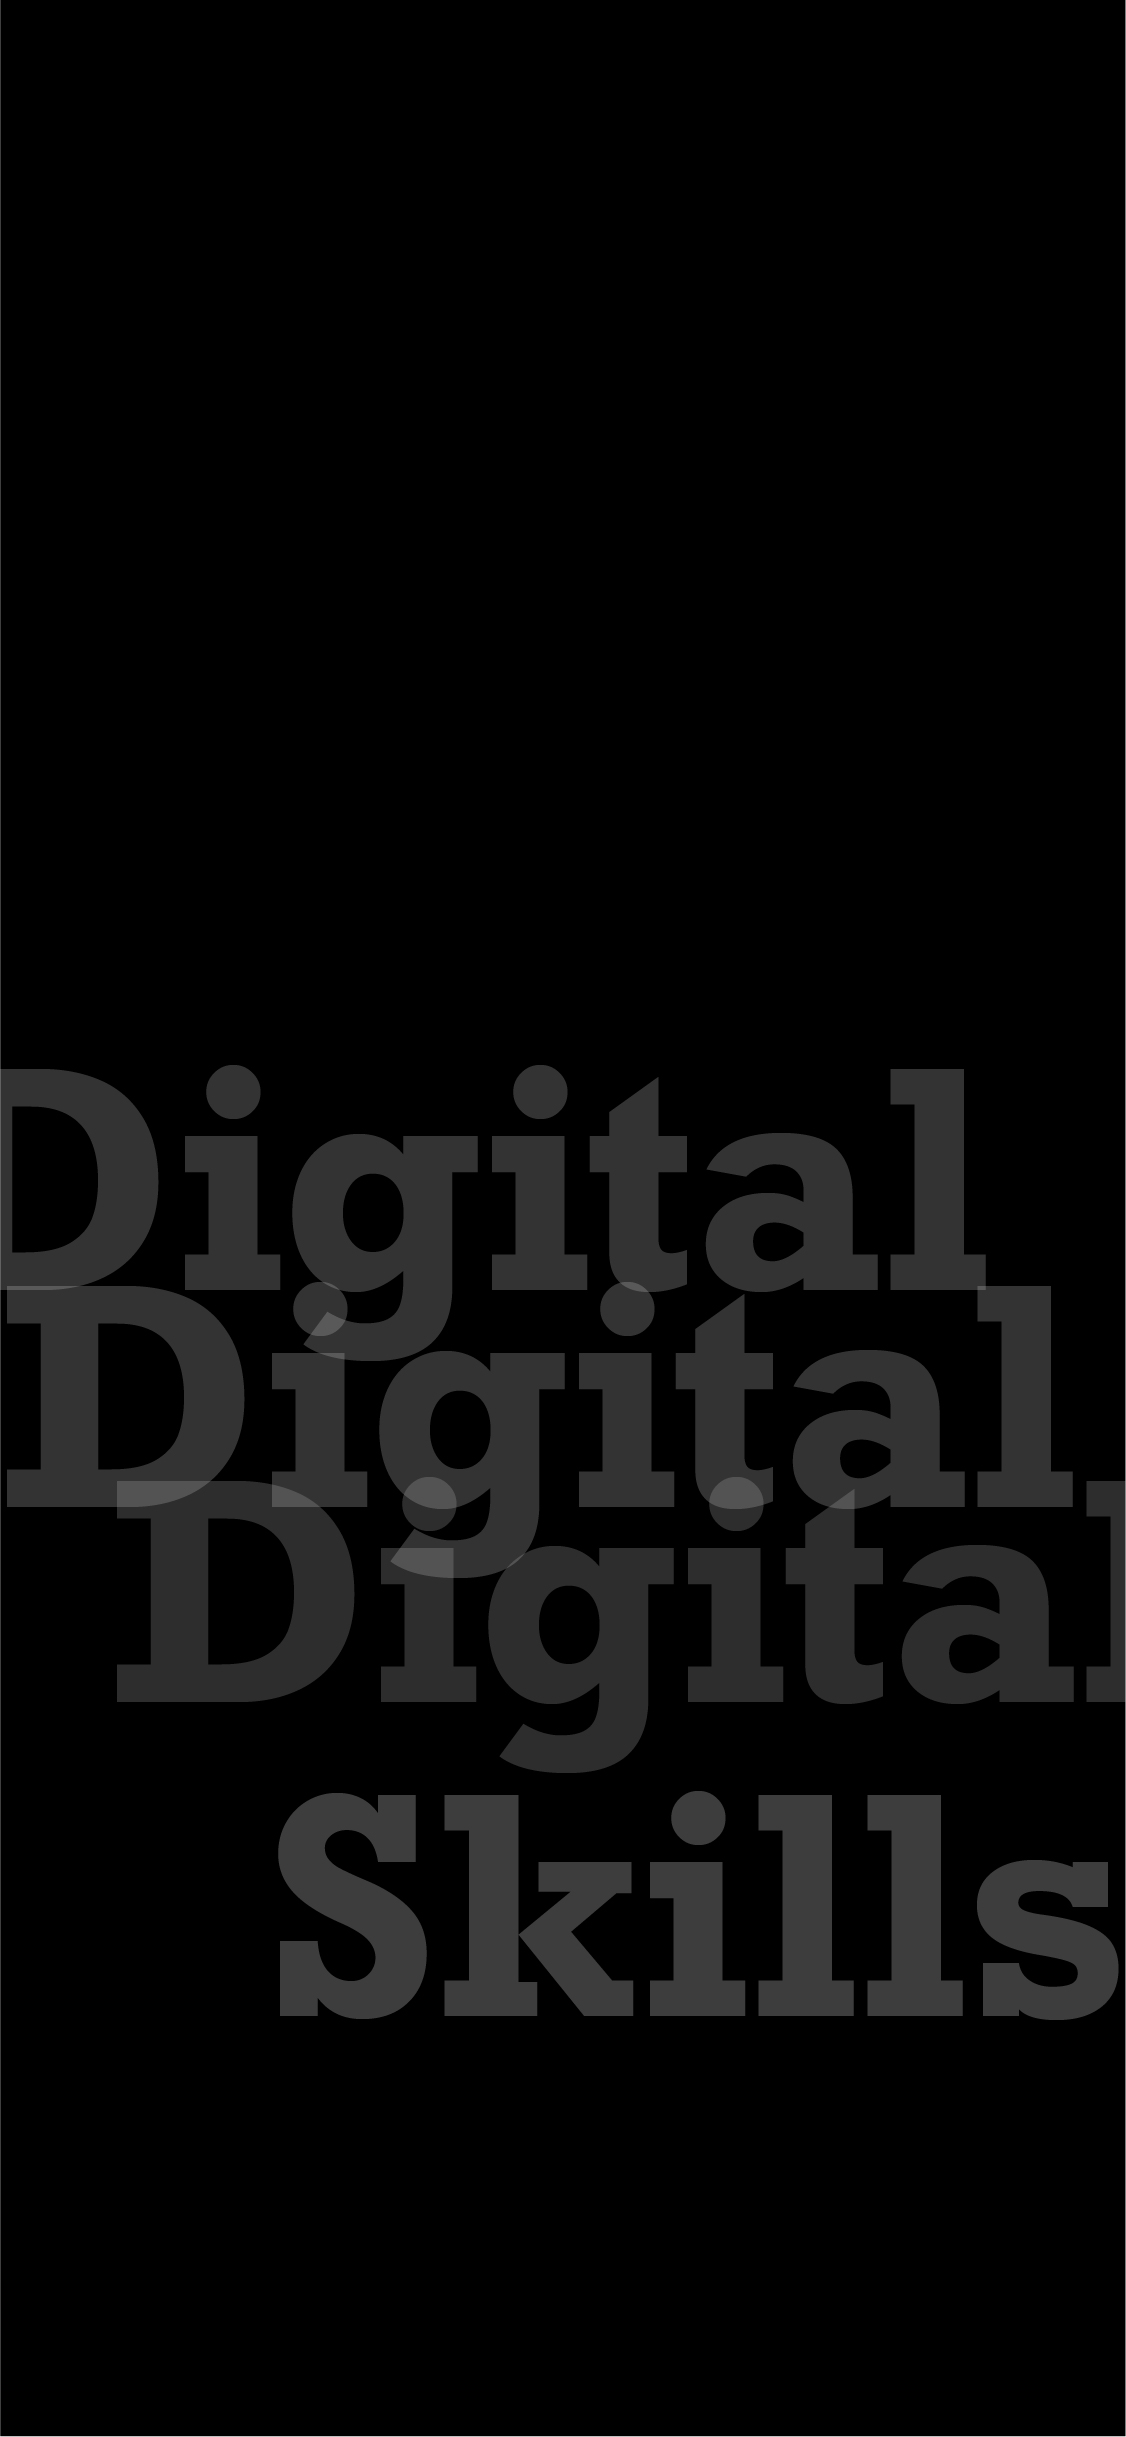
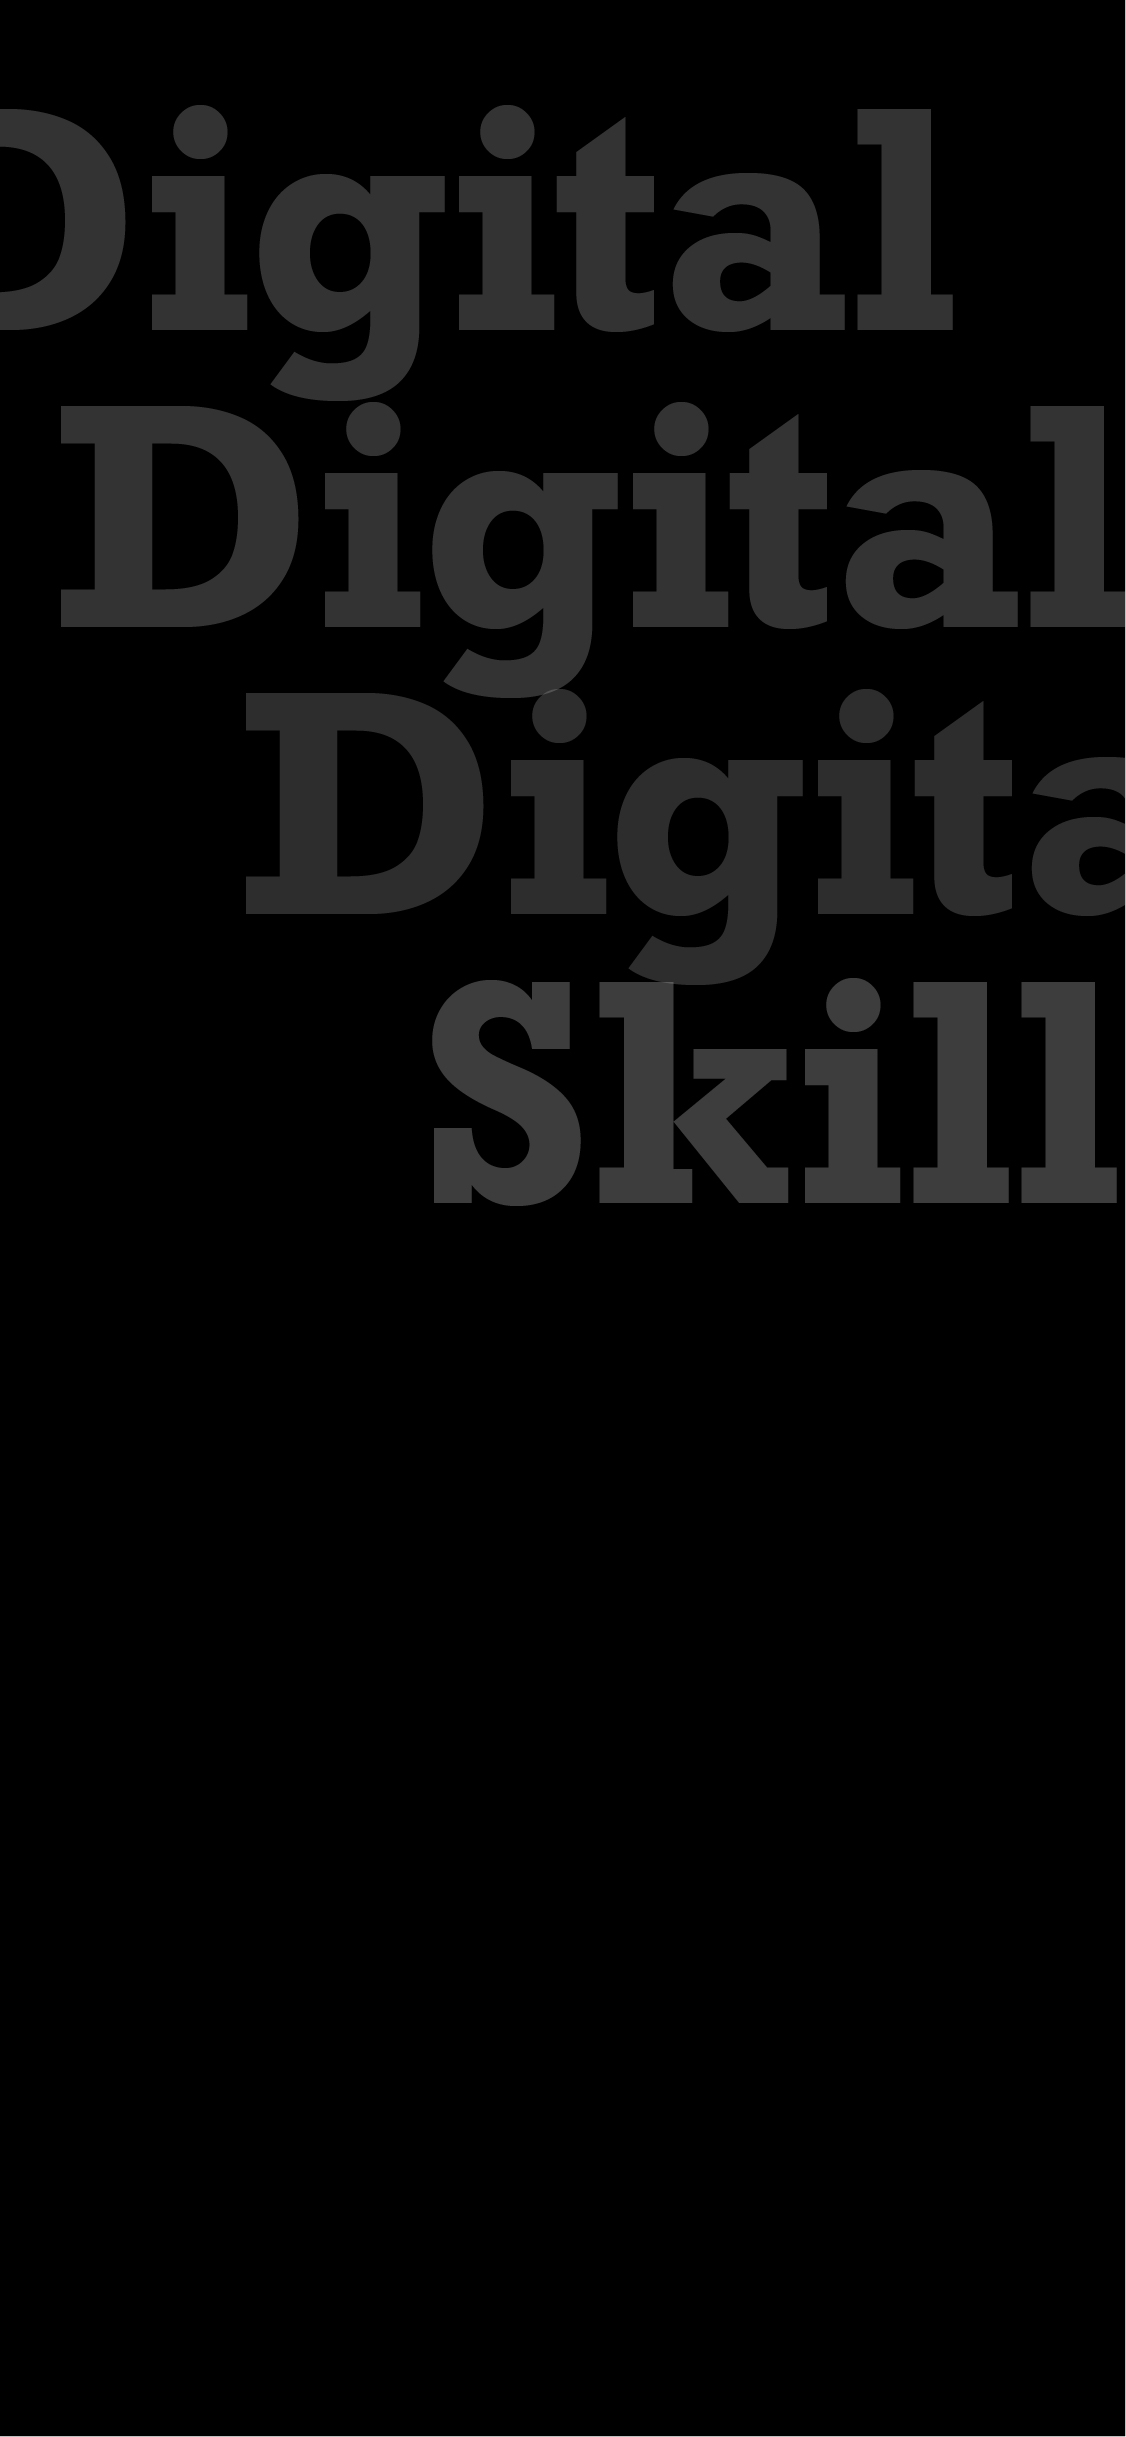
mobile backgrounds

diff --git a/code/css/iphone.css b/code/css/iphone.css
@@ -58,7 +58,7 @@ iPhone 8 375 x 667
     }
 
     .index {
-        background-image: url(../../assets/images/GitHub/homeMobile.jpg);
+        background-image: url(../../assets/images/GitHub/homeMobilev2.jpg);
     }
 
     .about {
@@ -90,7 +90,7 @@ iPhone 8 375 x 667
     }
     
     .contact {
-        background-image: url(../../assets/images/GitHub/contactMobilev2.jpg);
+        background-image: url(../../assets/images/GitHub/contactMobilev3.jpg);
     }
 
     body {
@@ -104,7 +104,7 @@ iPhone 8 375 x 667
 
     #logo1 img {
         height: 100%;
-        width: 100%;
+        width: 60%;
     }
 
     #logo2 img {
@@ -245,7 +245,7 @@ iPhone 8 375 x 667
     }
 
     #logo1 {
-        grid-column: 1 / 2;
+        grid-column: 1 / 3;
         grid-row: 1 / 2;
     }
 
